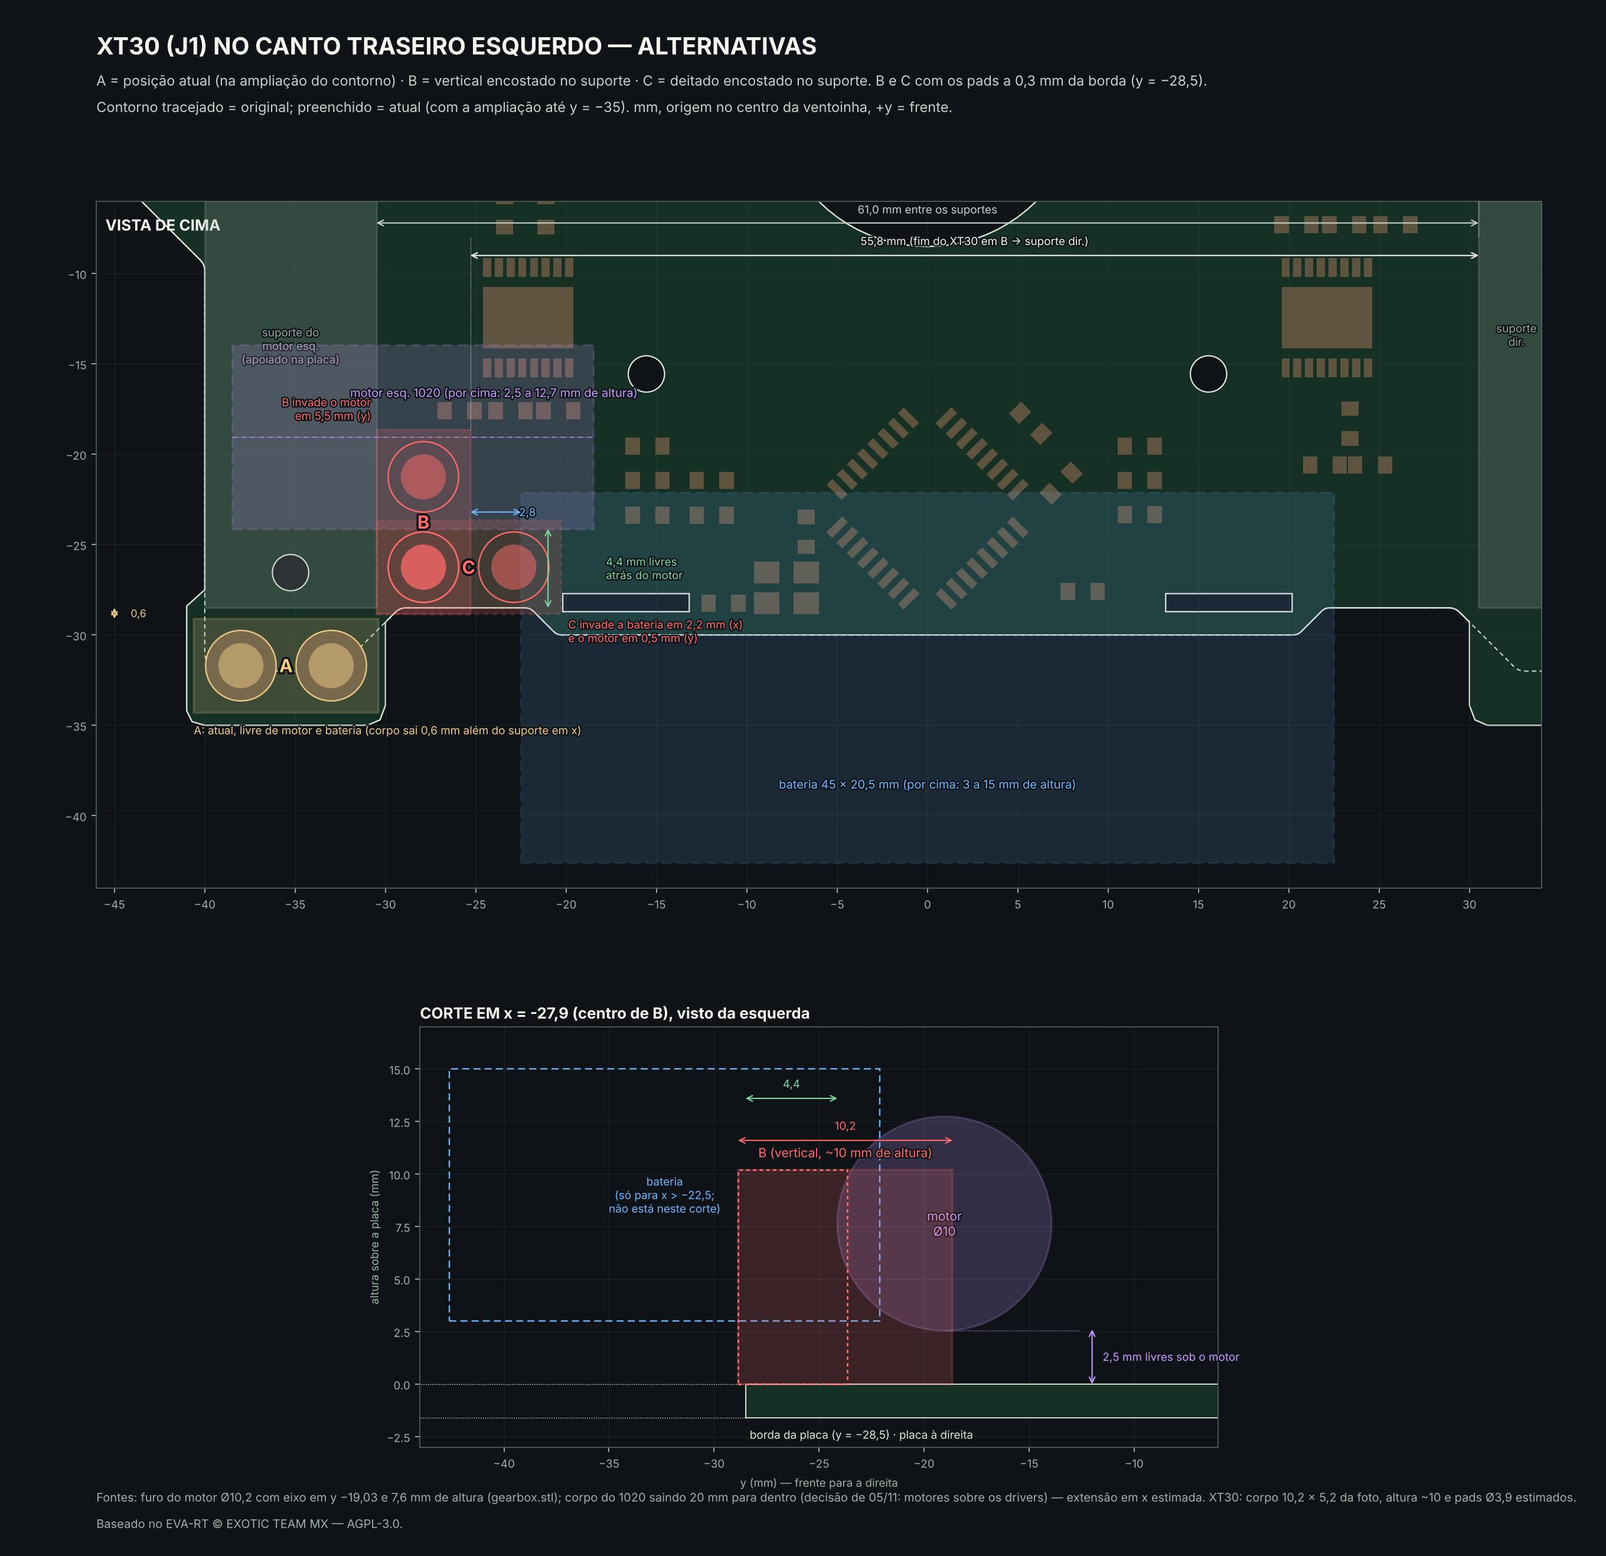
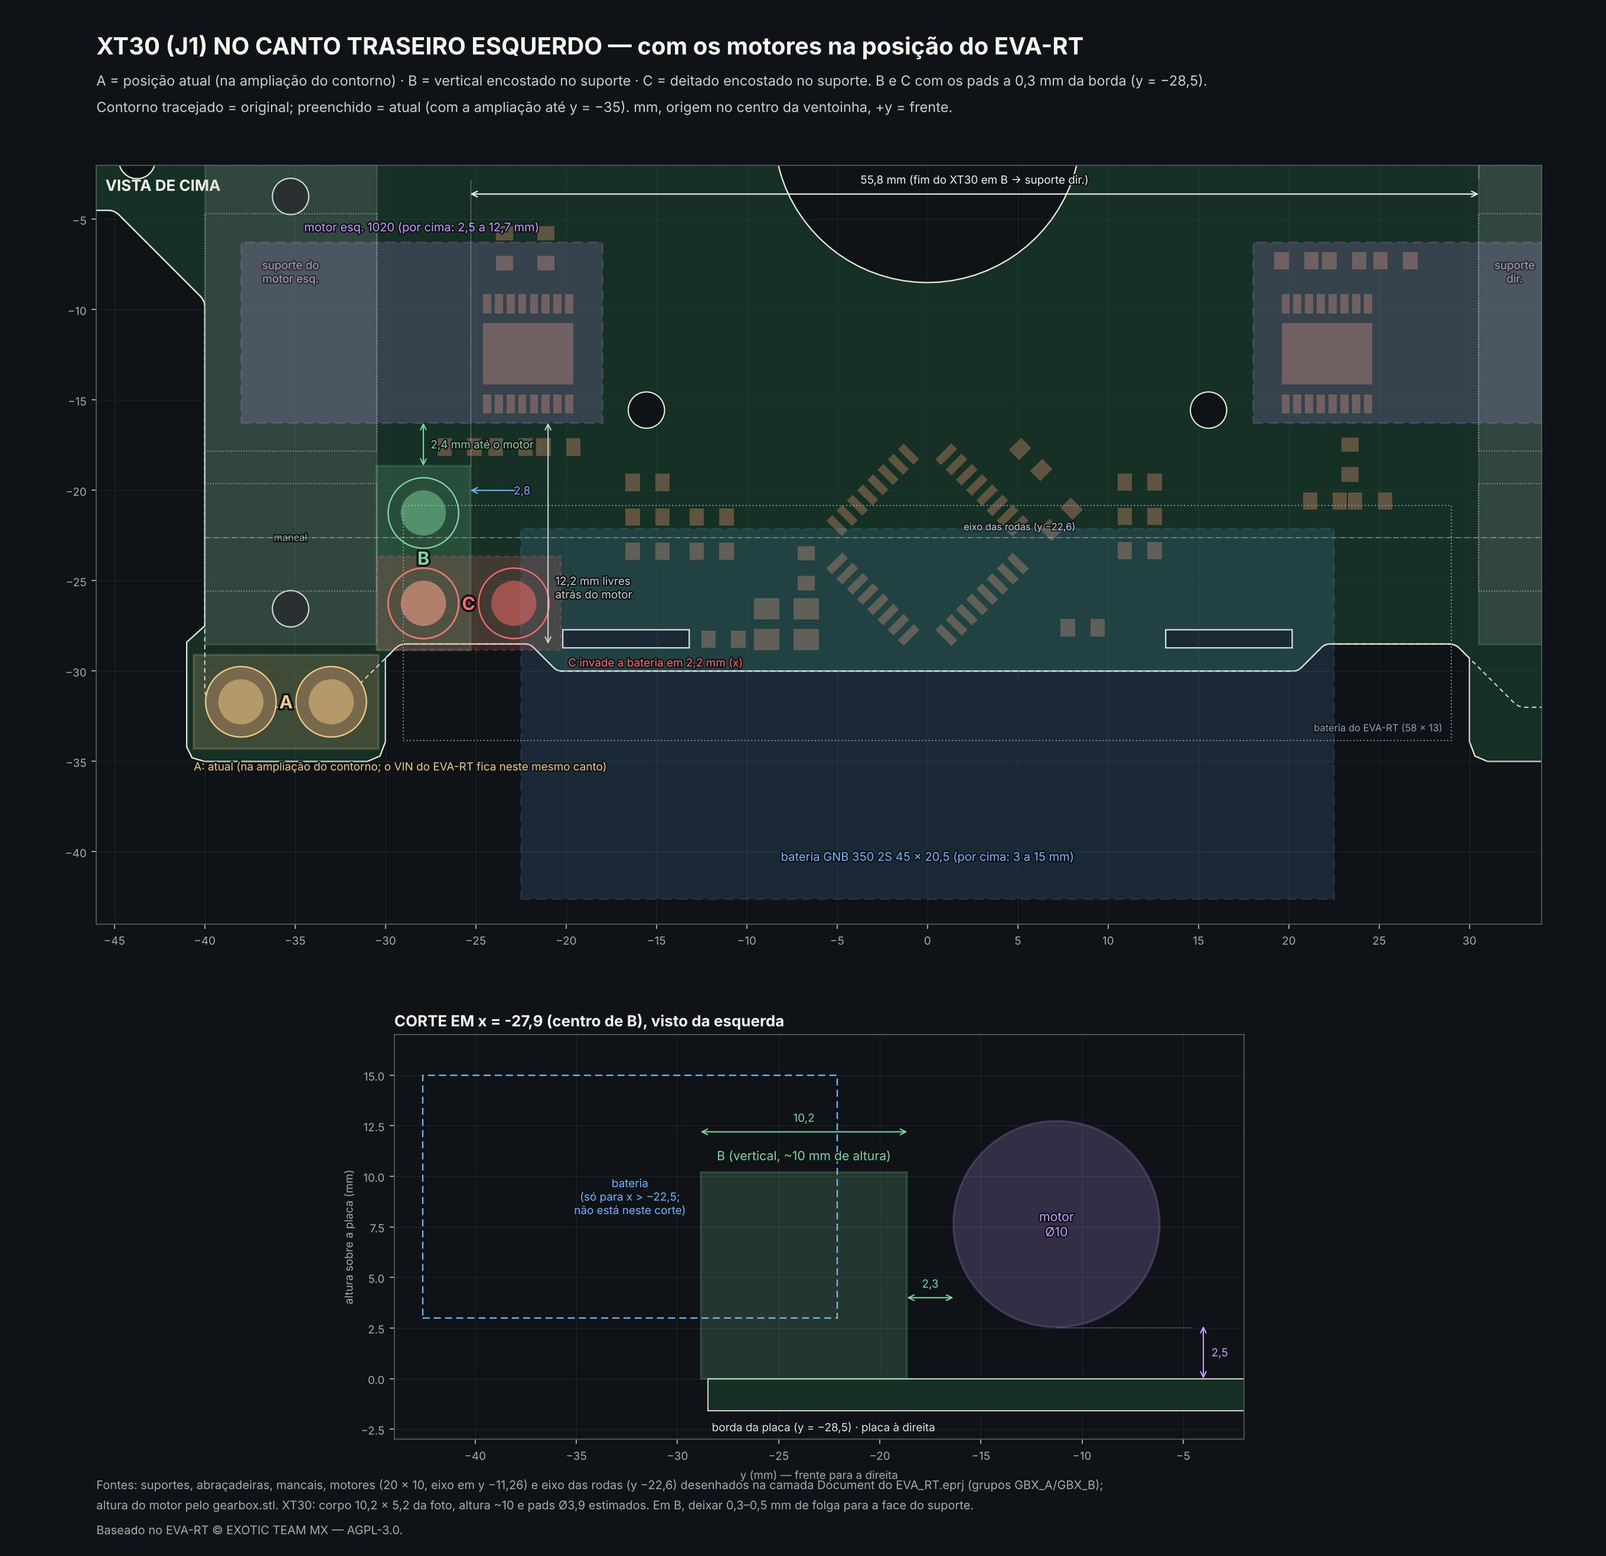
Corrige a posição dos motores pela camada Document do EVA-RT
Os grupos GBX_A/GBX_B do EVA_RT.eprj colocam o corpo de cada motor em
x ±18..±38, y -16,26..-6,26 (eixo em y -11,26), com o eixo das rodas em
y -22,6. A orientação do gearbox.stl usada antes estava girada 180 graus
(motor em y -19,03). Figura do XT30 refeita: na vertical, encostado no
suporte esquerdo, ele fica a 2,4 mm do motor e 2,8 mm da bateria.

Baseado no EVA-RT (c) EXOTIC TEAM MX, AGPL-3.0.

Claude-Session: https://claude.ai/code/session_01LzVZu2muQMe6vr7TyzFDaJ

diff --git a/ferramentas/preview/figura_xt30.py b/ferramentas/preview/figura_xt30.py
@@ -1,14 +1,17 @@
 """Figura de conferencia do XT30 (J1) no canto traseiro esquerdo: vista de cima e corte.
 
 Compara a posicao atual (A, na ampliacao do contorno) com o XT30 encostado no suporte
-do motor esquerdo, na vertical (B) e deitado (C). Motor e bateria ficam por cima da placa.
-Saida: hardware/preview/xt30_alternativas.jpg
+do motor esquerdo, na vertical (B) e deitado (C). Saida: hardware/preview/xt30_alternativas.jpg
+
+Fonte da posicao dos suportes e motores: camada Document do EVA_RT.eprj, grupos GBX_A
+(esquerdo) e GBX_B (direito): suporte x 30,5..40 / y -28,5..-1,78; abraçadeira do motor
+y -17,83..-4,68; mancal do eixo y -25,57..-19,62; corpo do motor 20 x 10 em x 18..38,
+y -16,26..-6,26 (eixo em y -11,26); linha do eixo das rodas em y -22,6. A altura do motor
+(furo de 10,2 mm com fundo a 2,55 mm da placa) vem do gearbox.stl.
 
 Baseado no EVA-RT (c) EXOTIC TEAM MX, AGPL-3.0.
 """
 from __future__ import annotations
-
-import math
 
 import matplotlib
 matplotlib.use('Agg')
@@ -18,20 +21,25 @@ from matplotlib.patches import Circle, Rectangle, Polygon as PPoly
 
 import layout_placa as M
 import placa_v2 as V
+from figura_v2 import poly
 
 BG = '#0f1317'; BOARD = '#173026'; WHITE = '#f3f5ee'; GRID = '#3c514a'
 OK = '#7ed6a0'; BAD = '#ff6b6b'; CUR = '#f0c987'; MOTOR = '#c79bff'; BAT = '#6fb6ff'; GB = '#9aa7a0'
 
-# medidas (mm)
-XT_L, XT_W, XT_H = 10.214, 5.2, 10.2        # corpo do XT30 (comprimento, largura, altura estimada)
-PAD_D, PAD_P = 3.9, 5.0                      # pads estimados e passo
-SUP_IN, SUP_OUT = -30.5, -40.0               # suporte do motor esquerdo (faces interna/externa)
-SUP_Y0, SUP_Y1 = -28.5, -1.8
-MOT_Y, MOT_Z, MOT_R = -19.03, 7.64, 5.1      # eixo do motor (y, altura) e raio do furo do suporte
-MOT_X0, MOT_X1 = -38.5, -18.5                # corpo 1020 (20 mm) saindo para dentro (estimado)
-BATT = (-22.5, -42.6, 22.5, -22.1, 3.0, 15.0)  # x0, y0, x1, y1, z0, z1
-EDGE_Y = -28.5                               # borda traseira entre x -28,9 e -22,25
-CLR = 0.3                                    # cobre-borda
+MIL = 0.0254
+XT_L, XT_W, XT_H = 10.214, 5.2, 10.2         # corpo do XT30 (comprimento, largura, altura estimada)
+PAD_D, PAD_P = 3.9, 5.0                       # pads estimados e passo
+SUP_IN, SUP_OUT, SUP_Y0, SUP_Y1 = -30.5, -40.0, -28.5, -1.78   # e15 (GBX_A)
+CLAMP_Y = (-17.83, -4.68)                     # e17: abraçadeira do motor
+BEAR_Y = (-25.57, -19.62)                     # e20: mancal do eixo
+MOT_X0, MOT_X1, MOT_Y0, MOT_Y1 = -38.0, -18.0, -16.26, -6.26   # e18: corpo do motor
+MOT_Y = (MOT_Y0 + MOT_Y1) / 2
+MOT_Z, MOT_R = 7.64, 5.1                      # altura do eixo e raio (gearbox.stl)
+AXLE_Y = -22.6                                # e1358: eixo das rodas
+BATT = (-22.5, -42.6, 22.5, -22.1, 3.0, 15.0)  # GNB 350 2S deitada (hipotese do preview)
+EVA_BATT = (-29.0, -33.83, 29.0, -20.83)      # e182: bateria do EVA-RT (58 x 13)
+EDGE_Y = -28.5
+CLR = 0.3
 
 
 def n(v):
@@ -50,10 +58,14 @@ def dim(ax, p0, p1, text, color=WHITE, off=(0, 0), fs=8, ha='center'):
     stroke(ax.text(mx, my, text, color=color, fontsize=fs, ha=ha, va='center', zorder=31))
 
 
+def rect(ax, x0, y0, x1, y1, **kw):
+    ax.add_patch(Rectangle((x0, y0), x1 - x0, y1 - y0, **kw))
+
+
 def xt30_top(ax, cx, cy, rot, color, label, ls='-'):
     w, h = (XT_L, XT_W) if rot == 0 else (XT_W, XT_L)
-    ax.add_patch(Rectangle((cx - w / 2, cy - h / 2), w, h, fill=True, fc=color, alpha=.18,
-                           ec=color, lw=1.6, ls=ls, zorder=20))
+    rect(ax, cx - w / 2, cy - h / 2, cx + w / 2, cy + h / 2, fc=color, alpha=.18, ec=color, lw=1.6,
+         ls=ls, zorder=20)
     for s in (-1, 1):
         px, py = (cx + s * PAD_P / 2, cy) if rot == 0 else (cx, cy + s * PAD_P / 2)
         ax.add_patch(Circle((px, py), PAD_D / 2, fc='none', ec=color, lw=1.0, zorder=21))
@@ -66,7 +78,7 @@ def xt30_top(ax, cx, cy, rot, color, label, ls='-'):
 def main():
     fig = plt.figure(figsize=(16, 15.5), dpi=170, facecolor=BG)
     ax = fig.add_axes([0.06, 0.40, 0.90, 0.50])
-    ax2 = fig.add_axes([0.06, 0.07, 0.90, 0.27])
+    ax2 = fig.add_axes([0.06, 0.075, 0.90, 0.26])
     for a in (ax, ax2):
         a.set_facecolor(BG)
         a.tick_params(colors='#9fb0a8', labelsize=8)
@@ -75,109 +87,104 @@ def main():
         a.grid(color=GRID, alpha=.35, lw=.4)
 
     # ---------------------------------------------------------------- vista de cima
-    x0, x1, y0, y1 = -46, 34, -44, -6
+    x0, x1, y0, y1 = -46, 34, -44, -2
     ax.set_xlim(x0, x1); ax.set_ylim(y0, y1); ax.set_aspect('equal')
-    ax.set_xticks(range(-45, 35, 5)); ax.set_yticks(range(-40, -5, 5))
-    orig = PPoly(M.BOARD_DATA['contorno'], closed=True, fc='none', ec='#e1e7db', lw=.8, ls=(0, (4, 3)), zorder=3)
-    from figura_v2 import poly
+    ax.set_xticks(range(-45, 35, 5)); ax.set_yticks(range(-40, 0, 5))
     poly(ax, M.BOARD, facecolor=BOARD, edgecolor='#dfe6da', lw=1.0, zorder=1)
-    ax.add_patch(orig)
-    # componentes reais (baixos) para referencia
-    pos = V.load()
-    for c in pos:
-        if c['face'] != 'TOP' or not (x0 < c['x'] < x1 and y0 < c['y'] < y1):
-            continue
-        for p in M.get_pads(c):
-            poly(ax, p['shape'], facecolor='#5e5440', edgecolor='none', zorder=4)
-    for name in ('suporte_motor_E_tras', 'suporte_motor_E_frente', 'suporte_motor_D_tras', 'carcaca_SO', 'carcaca_SE'):
-        h = next(h for h in M.BOARD_DATA['furos'] if h['nome'] == name)
-        ax.add_patch(Circle((h['x'], h['y']), h['d'] / 2, fc=BG, ec='#dfe6da', lw=.8, zorder=5))
-    # suportes dos motores (em cima, apoiados na placa)
-    for xa, xb in ((SUP_OUT, SUP_IN), (-SUP_IN, -SUP_OUT)):
-        ax.add_patch(Rectangle((xa, SUP_Y0), xb - xa, SUP_Y1 - SUP_Y0, fc=GB, alpha=.22, ec=GB, lw=1.2, zorder=6))
-    stroke(ax.text(-35.25, -14.0, 'suporte do\nmotor esq.\n(apoiado na placa)', color=GB, fontsize=8,
-                   ha='center', va='center', zorder=8))
-    stroke(ax.text(32.6, -14.0, 'suporte\ndir.', color=GB, fontsize=8, ha='center', zorder=8))
-    # motor esquerdo (por cima, 2,6..12,7 mm)
-    ax.add_patch(Rectangle((MOT_X0, MOT_Y - MOT_R), MOT_X1 - MOT_X0, 2 * MOT_R, fc=MOTOR, alpha=.18,
-                           ec=MOTOR, lw=1.4, ls=(0, (5, 3)), zorder=10))
-    stroke(ax.text(-24.0, MOT_Y + 2.2, 'motor esq. 1020 (por cima: 2,5 a 12,7 mm de altura)', color=MOTOR,
+    ax.add_patch(PPoly(M.BOARD_DATA['contorno'], closed=True, fc='none', ec='#e1e7db', lw=.8,
+                       ls=(0, (4, 3)), zorder=3))
+    for c in V.load():
+        if c['face'] == 'TOP' and x0 < c['x'] < x1 and y0 < c['y'] < y1:
+            for p in M.get_pads(c):
+                poly(ax, p['shape'], facecolor='#5e5440', edgecolor='none', zorder=4)
+    for h in M.BOARD_DATA['furos']:
+        if h['tipo'] == 'furo' and x0 < h['x'] < x1 and y0 < h['y'] < y1:
+            ax.add_patch(Circle((h['x'], h['y']), h['d'] / 2, fc=BG, ec='#dfe6da', lw=.8, zorder=5))
+    for sx in (1, -1):        # suportes (e15/e24), abraçadeira e mancal
+        xa, xb = sorted((sx * SUP_OUT, sx * SUP_IN))
+        rect(ax, xa, SUP_Y0, xb, SUP_Y1, fc=GB, alpha=.20, ec=GB, lw=1.2, zorder=6)
+        for ya, yb in (CLAMP_Y, BEAR_Y):
+            rect(ax, xa, ya, xb, yb, fc='none', ec=GB, lw=.7, ls=':', zorder=7)
+    stroke(ax.text(-35.25, -8.5, 'suporte do\nmotor esq.', color=GB, fontsize=8, ha='center', zorder=8))
+    stroke(ax.text(-35.25, -22.6, 'mancal', color=GB, fontsize=7, ha='center', va='center', zorder=8))
+    stroke(ax.text(32.5, -8.5, 'suporte\ndir.', color=GB, fontsize=8, ha='center', zorder=8))
+    ax.plot([-40, 40], [AXLE_Y, AXLE_Y], color='#dfe6da', lw=.6, ls='-.', alpha=.6, zorder=8)
+    stroke(ax.text(2.0, AXLE_Y + 0.4, 'eixo das rodas (y −22,6)', color='#c7d2cc', fontsize=7, zorder=9))
+    for sx in (1, -1):        # motores (e18/e22)
+        xa, xb = sorted((sx * MOT_X0, sx * MOT_X1))
+        rect(ax, xa, MOT_Y0, xb, MOT_Y1, fc=MOTOR, alpha=.18, ec=MOTOR, lw=1.4, ls=(0, (5, 3)), zorder=10)
+    stroke(ax.text(-28.0, MOT_Y1 + 0.6, 'motor esq. 1020 (por cima: 2,5 a 12,7 mm)', color=MOTOR,
                    fontsize=8.5, ha='center', zorder=12))
-    ax.plot([MOT_X0, MOT_X1], [MOT_Y, MOT_Y], color=MOTOR, lw=.6, ls='-.', zorder=11)
-    # bateria (por cima, 3..15 mm)
     bx0, by0, bx1, by1, bz0, bz1 = BATT
-    ax.add_patch(Rectangle((bx0, by0), bx1 - bx0, by1 - by0, fc=BAT, alpha=.13, ec=BAT, lw=1.4,
-                           ls=(0, (5, 3)), zorder=9))
-    stroke(ax.text(0, -38.5, 'bateria 45 × 20,5 mm (por cima: 3 a 15 mm de altura)', color=BAT, fontsize=8.5,
+    rect(ax, bx0, by0, bx1, by1, fc=BAT, alpha=.13, ec=BAT, lw=1.4, ls=(0, (5, 3)), zorder=9)
+    stroke(ax.text(0, -40.5, 'bateria GNB 350 2S 45 × 20,5 (por cima: 3 a 15 mm)', color=BAT, fontsize=8.5,
                    ha='center', zorder=12))
+    ex0, ey0, ex1, ey1 = EVA_BATT
+    rect(ax, ex0, ey0, ex1, ey1, fc='none', ec='#8fa0b8', lw=.8, ls=(0, (1, 2)), zorder=9)
+    stroke(ax.text(ex1 - 0.5, ey0 + 0.5, 'bateria do EVA-RT (58 × 13)', color='#8fa0b8', fontsize=7,
+                   ha='right', zorder=12))
 
-    # A: posicao atual (na ampliacao do contorno)
     a = xt30_top(ax, -35.5, -31.7, 0, CUR, 'A')
-    # B: vertical, encostado no suporte, pads a 0,3 mm da borda
     cyB = EDGE_Y + CLR + PAD_D / 2 + PAD_P / 2
-    b = xt30_top(ax, SUP_IN + XT_W / 2, cyB, 90, BAD, 'B')
-    # C: deitado, encostado no suporte, pads a 0,3 mm da borda
+    b = xt30_top(ax, SUP_IN + XT_W / 2, cyB, 90, OK, 'B')
     cyC = EDGE_Y + CLR + PAD_D / 2
     c = xt30_top(ax, SUP_IN + XT_L / 2, cyC, 0, BAD, 'C', ls=(0, (2, 2)))
 
     # cotas
-    dim(ax, (b[2], -9.0), (-SUP_IN, -9.0), f'{n(-SUP_IN - b[2])} mm (fim do XT30 em B → suporte dir.)', off=(0, 0.8))
-    ax.plot([b[2], b[2]], [b[3], -8.0], color=WHITE, lw=.5, ls=':', zorder=29)
-    ax.plot([-SUP_IN, -SUP_IN], [SUP_Y1, -8.0], color=WHITE, lw=.5, ls=':', zorder=29)
-    dim(ax, (SUP_IN, -7.2), (-SUP_IN, -7.2), f'{n(2 * -SUP_IN)} mm entre os suportes', off=(0, 0.75), color='#c7d2cc')
-    dim(ax, (b[2], -23.2), (bx0, -23.2), f'{n(bx0 - b[2])}', off=(1.3, 0.0), color=BAT, ha='left')
-    dim(ax, (-21.0, MOT_Y - MOT_R), (-21.0, EDGE_Y), f'{n(MOT_Y - MOT_R - EDGE_Y)} mm livres\natrás do motor',
-        off=(3.2, 0), color=OK, ha='left')
-    dim(ax, (-45.0, a[3]), (-45.0, SUP_Y0), f'{n(SUP_Y0 - a[3])}', off=(0.9, 0), color=CUR, fs=7.5, ha='left')
-    stroke(ax.text(b[0] - 0.3, b[3] + 0.4, f'B invade o motor\nem {n(b[3] - (MOT_Y - MOT_R))} mm (y)',
-                   color=BAD, fontsize=8, ha='right', va='bottom', zorder=32))
-    stroke(ax.text(c[2] + 0.4, c[1] - 0.2, f'C invade a bateria em {n(c[2] - bx0)} mm (x)\n'
-                   f'e o motor em {n(c[3] - (MOT_Y - MOT_R))} mm (y)', color=BAD, fontsize=8,
-                   ha='left', va='top', zorder=32))
-    stroke(ax.text(a[0], a[1] - 0.6, 'A: atual, livre de motor e bateria (corpo sai 0,6 mm além do suporte em x)',
+    dim(ax, (b[2], -3.6), (-SUP_IN, -3.6), f'{n(-SUP_IN - b[2])} mm (fim do XT30 em B → suporte dir.)', off=(0, 0.8))
+    ax.plot([b[2], b[2]], [b[3], -2.8], color=WHITE, lw=.5, ls=':', zorder=29)
+    ax.plot([-SUP_IN, -SUP_IN], [SUP_Y1, -2.8], color=WHITE, lw=.5, ls=':', zorder=29)
+    dim(ax, (b[2], -20.0), (bx0, -20.0), n(bx0 - b[2]), off=(1.0, 0.0), color=BAT, ha='left')
+    dim(ax, (-27.9, b[3]), (-27.9, MOT_Y0), f'{n(MOT_Y0 - b[3])} mm até o motor', off=(0.4, 0),
+        color=OK, ha='left')
+    dim(ax, (-21.0, MOT_Y0), (-21.0, EDGE_Y), f'{n(MOT_Y0 - EDGE_Y)} mm livres\natrás do motor',
+        off=(0.4, -3.0), color='#c7d2cc', ha='left')
+    stroke(ax.text(c[2] + 0.4, c[1] - 0.3, f'C invade a bateria em {n(c[2] - bx0)} mm (x)', color=BAD,
+                   fontsize=8, ha='left', va='top', zorder=32))
+    stroke(ax.text(a[0], a[1] - 0.6, 'A: atual (na ampliação do contorno; o VIN do EVA-RT fica neste mesmo canto)',
                    color=CUR, fontsize=8, ha='left', va='top', zorder=32))
-    ax.text(x0 + 0.5, y1 - 0.8, 'VISTA DE CIMA', color=WHITE, fontsize=11, fontweight='bold', va='top')
+    ax.text(x0 + 0.5, y1 - 0.6, 'VISTA DE CIMA', color=WHITE, fontsize=11, fontweight='bold', va='top')
 
     # ---------------------------------------------------------------- corte x = centro de B
     xc = SUP_IN + XT_W / 2
-    ax2.set_xlim(-44, -6); ax2.set_ylim(-3, 17); ax2.set_aspect('equal')
+    ax2.set_xlim(-44, -2); ax2.set_ylim(-3, 17); ax2.set_aspect('equal')
     ax2.set_xlabel('y (mm) — frente para a direita', color='#9fb0a8', fontsize=8)
     ax2.set_ylabel('altura sobre a placa (mm)', color='#9fb0a8', fontsize=8)
-    ax2.add_patch(Rectangle((EDGE_Y, -1.6), 40, 1.6, fc=BOARD, ec='#dfe6da', lw=.8, zorder=2))
-    ax2.add_patch(Rectangle((EDGE_Y - 40, -1.6), 40, 1.6, fc='none', ec='#dfe6da', lw=.6, ls=':', zorder=2))
-    stroke(ax2.text(EDGE_Y + 0.2, -2.6, 'borda da placa (y = −28,5) · placa à direita', color='#dfe6da', fontsize=8))
+    rect(ax2, EDGE_Y, -1.6, 40, 0, fc=BOARD, ec='#dfe6da', lw=.8, zorder=2)
+    stroke(ax2.text(EDGE_Y + 0.2, -2.6, 'borda da placa (y = −28,5) · placa à direita', color='#dfe6da',
+                    fontsize=8))
     ax2.add_patch(Circle((MOT_Y, MOT_Z), MOT_R, fc=MOTOR, alpha=.2, ec=MOTOR, lw=1.4, zorder=5))
     stroke(ax2.text(MOT_Y, MOT_Z, 'motor\nØ10', color=MOTOR, fontsize=9, ha='center', va='center', zorder=6))
-    ax2.add_patch(Rectangle((by0, bz0), by1 - by0, bz1 - bz0, fc='none', ec=BAT, lw=1.0, ls=(0, (5, 3)), zorder=4))
+    rect(ax2, by0, bz0, by1, bz1, fc='none', ec=BAT, lw=1.0, ls=(0, (5, 3)), zorder=4)
     stroke(ax2.text((by0 + by1) / 2, 9, 'bateria\n(só para x > −22,5;\nnão está neste corte)', color=BAT,
                     fontsize=8, ha='center', va='center', zorder=6))
-    ax2.add_patch(Rectangle((b[1], 0), b[3] - b[1], XT_H, fc=BAD, alpha=.18, ec=BAD, lw=1.6, zorder=7))
-    stroke(ax2.text((b[1] + b[3]) / 2, XT_H + 0.6, 'B (vertical, ~10 mm de altura)', color=BAD, fontsize=9, ha='center', zorder=8))
-    ax2.add_patch(Rectangle((c[1], 0), c[3] - c[1], XT_H, fc='none', ec=BAD, lw=1.2, ls=(0, (2, 2)), zorder=7))
-    stroke(ax2.text((c[1] + c[3]) / 2, -2.6 + 0.0, '', color=BAD))
-    dim(ax2, (-12.0, 0), (-12.0, MOT_Z - MOT_R + 0.06), f'{n(MOT_Z - MOT_R)} mm livres sob o motor', off=(0.5, 0),
-        color=MOTOR, ha='left')
-    ax2.plot([-12.6, MOT_Y], [MOT_Z - MOT_R, MOT_Z - MOT_R], color=MOTOR, lw=.5, ls=':')
-    dim(ax2, (EDGE_Y, 13.6), (MOT_Y - MOT_R, 13.6), n(MOT_Y - MOT_R - EDGE_Y), off=(0, 0.7), color=OK)
-    dim(ax2, (b[1], 11.6), (b[3], 11.6), n(XT_L), off=(0, 0.7), color=BAD)
+    rect(ax2, b[1], 0, b[3], XT_H, fc=OK, alpha=.18, ec=OK, lw=1.6, zorder=7)
+    stroke(ax2.text((b[1] + b[3]) / 2, XT_H + 0.6, 'B (vertical, ~10 mm de altura)', color=OK, fontsize=9,
+                    ha='center', zorder=8))
+    dim(ax2, (b[3], 4.0), (MOT_Y - MOT_R, 4.0), n(MOT_Y - MOT_R - b[3]), off=(0, 0.7), color=OK)
+    dim(ax2, (-4.0, 0), (-4.0, MOT_Z - MOT_R + 0.06), f'{n(MOT_Z - MOT_R)}', off=(0.4, 0), color=MOTOR, ha='left')
+    ax2.plot([-4.6, MOT_Y], [MOT_Z - MOT_R, MOT_Z - MOT_R], color=MOTOR, lw=.5, ls=':')
+    dim(ax2, (b[1], 12.2), (b[3], 12.2), n(XT_L), off=(0, 0.7), color=OK)
     ax2.set_title(f'CORTE EM x = {n(xc)} (centro de B), visto da esquerda', color=WHITE, fontsize=11,
                   fontweight='bold', loc='left')
 
-    fig.text(0.06, 0.965, 'XT30 (J1) NO CANTO TRASEIRO ESQUERDO — ALTERNATIVAS', color=WHITE, fontsize=17,
-             fontweight='bold')
+    fig.text(0.06, 0.965, 'XT30 (J1) NO CANTO TRASEIRO ESQUERDO — com os motores na posição do EVA-RT',
+             color=WHITE, fontsize=17, fontweight='bold')
     fig.text(0.06, 0.945, 'A = posição atual (na ampliação do contorno) · B = vertical encostado no suporte · '
              'C = deitado encostado no suporte. B e C com os pads a 0,3 mm da borda (y = −28,5).',
              color='#c7d2cc', fontsize=10)
     fig.text(0.06, 0.928, 'Contorno tracejado = original; preenchido = atual (com a ampliação até y = −35). '
              'mm, origem no centro da ventoinha, +y = frente.', color='#c7d2cc', fontsize=10)
-    fig.text(0.06, 0.035, 'Fontes: furo do motor Ø10,2 com eixo em y −19,03 e 7,6 mm de altura (gearbox.stl); corpo do 1020 '
-             'saindo 20 mm para dentro (decisão de 05/11: motores sobre os drivers) — extensão em x estimada. '
-             'XT30: corpo 10,2 × 5,2 da foto, altura ~10 e pads Ø3,9 estimados.', color='#9fb0a8', fontsize=8.5,
-             wrap=True)
-    fig.text(0.06, 0.018, 'Baseado no EVA-RT © EXOTIC TEAM MX — AGPL-3.0.', color='#9fb0a8', fontsize=8.5)
+    fig.text(0.06, 0.043, 'Fontes: suportes, abraçadeiras, mancais, motores (20 × 10, eixo em y −11,26) e eixo das '
+             'rodas (y −22,6) desenhados na camada Document do EVA_RT.eprj (grupos GBX_A/GBX_B);',
+             color='#9fb0a8', fontsize=8.5)
+    fig.text(0.06, 0.030, 'altura do motor pelo gearbox.stl. XT30: corpo 10,2 × 5,2 da foto, altura ~10 e pads Ø3,9 '
+             'estimados. Em B, deixar 0,3–0,5 mm de folga para a face do suporte.', color='#9fb0a8', fontsize=8.5)
+    fig.text(0.06, 0.014, 'Baseado no EVA-RT © EXOTIC TEAM MX — AGPL-3.0.', color='#9fb0a8', fontsize=8.5)
     out = M.OUTPUT / 'xt30_alternativas.jpg'
     fig.savefig(out, dpi=170, facecolor=BG)
     print(out)
+    print('B:', [round(v, 2) for v in b], 'motor y0', MOT_Y0, 'folga', round(MOT_Y0 - b[3], 2))
 
 
 if __name__ == '__main__':

diff --git a/docs/DECISOES_2026-11-05.md b/docs/DECISOES_2026-11-05.md
@@ -1,5 +1,17 @@
 # Decisões de 05/11/2026 (preview de posicionamento)
 
+## Correção de 06/11 — posição dos motores
+
+Pela camada Document do `EVA_RT.eprj` (grupos GBX_A/GBX_B), o corpo de cada motor
+1020 fica em x ±18…±38, **y −16,26…−6,26 (eixo em y −11,26)**, a 2,5–12,7 mm de altura;
+abraçadeira do motor em y −17,83…−4,68, mancal do eixo em y −25,57…−19,62 e eixo das
+rodas em y −22,6 (11,34 mm do eixo do motor, ≈ 11,25 das engrenagens M0,3 64T/11T).
+O `gearbox.stl` em `geometria.py` está girado 180° (o furo do motor caiu em y −19,03);
+isso não afeta o posicionamento v2, mas não usar aquela orientação para o motor.
+Com os motores na posição certa, o XT30 na vertical encostado no suporte esquerdo
+(x −30,5…−25,3; y −28,9…−18,6) fica a 2,4 mm do motor e 2,8 mm da bateria; ver
+`hardware/preview/xt30_alternativas.jpg`. Mover ou não o J1 é decisão do Erick.
+
 ## Decisão posterior de 06/11 — J3 sem PTH e ATmega recuado
 
 O Erick decidiu retirar a barra PTH inferior e fazer a conexão deitada na
